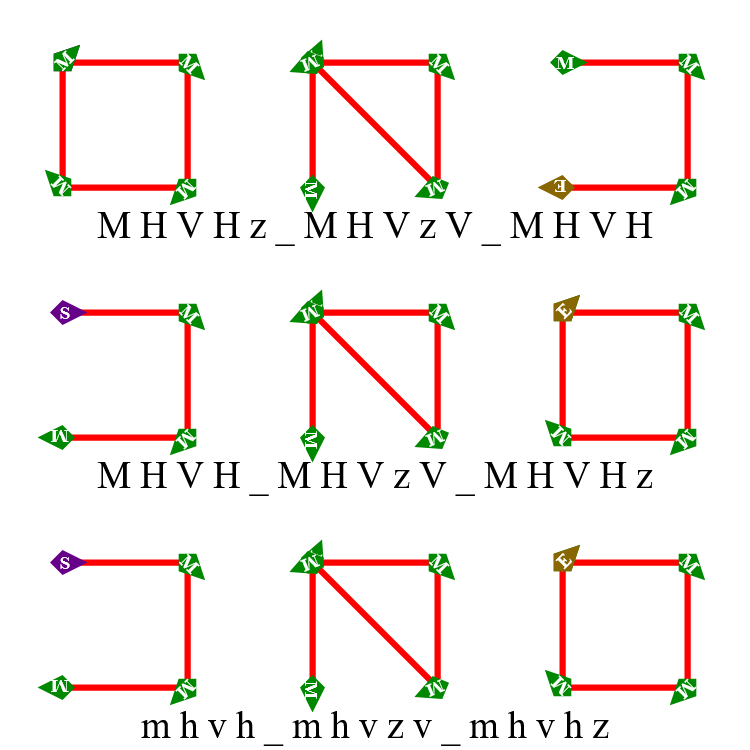
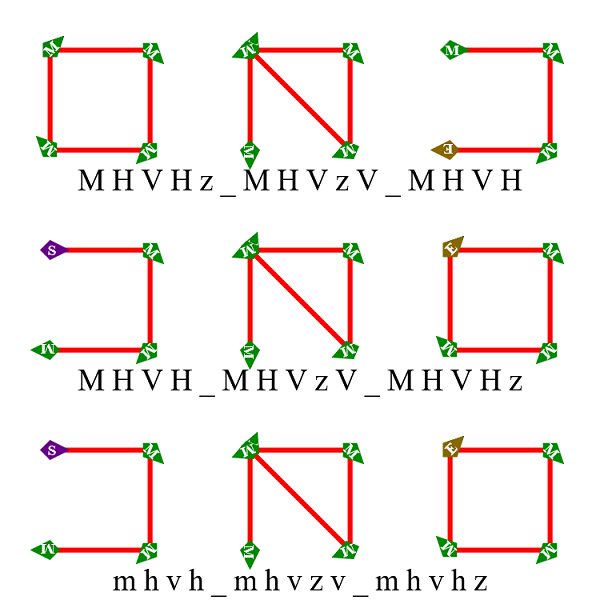
Fix

diff --git a/sahara/node_vertices_tests/README.md b/sahara/node_vertices_tests/README.md
@@ -11,7 +11,7 @@ The rightmost images are visualisations of the `node.vertices` array, which is i
 ## Lines
 |     |     |     |
 | :-: | :-: | :-: |
-| ![](lines-ink.png)<br/>**Inkscape** | ![]lines-kozea.png)<br/>**Kozea** | ![](lines-kozea-vertices.png)<br/>**Kozea (vertices)** |
+| ![](lines-ink.png)<br/>**Inkscape** | ![](lines-kozea.png)<br/>**Kozea** | ![](lines-kozea-vertices.png)<br/>**Kozea (vertices)** |
 | ![](lines-agc-main.png)<br/>**AgC/main**| ![](lines-agc-master.png)<br/>**AgC/master**  | ![](lines-agc-master-vertices.png)<br/>**AgC/master (vertices)** |
 
 ## Beziers
@@ -55,7 +55,6 @@ The seemingly missing markers in the bottom Inkscape image are due to an inconsi
 ## Marker size & gradients
 |     |     |     |
 | :-: | :-: | :-: |
-| ![](gradient-ink-fix.png)<br/>**Inkscape** | ![](gradient-kozea.png)<br/>**Kozea** | ![](gradient-kozea-vertices.png)<br/>**Kozea (vertices)** |
-| ![](gradient-agc-main.png)<br/>**AgC/main**| ![](gradient-agc-master.png)<br/>**AgC/master**  | ![](gradient-agc-master-vertices.png)<br/>**AgC/master (vertices)** |
+| ![](gradient-ink.png)<br/>**Inkscape** | ![](gradient-kozea.png)<br/>**Kozea** | ![](gradient-agc-master.png)<br/>**AgC/master** |
 
 [I removed](https://github.com/SilverCardioid/CairoSVG/commit/0835fc88780de1272eeb9181a02986d4289146cc) a section of code that scales markers based on their bounding box after noticing an issue with the sizes of markers (the testcase in the previous section was mistakenly [drawn with equally sized markers](overlap-kozea.png)). This part was [added in 2016](https://github.com/Kozea/CairoSVG/pull/89) in a series of edits relating to gradients, though what exact problem it was intended to fix isn't clear to me. This testcase renders the gradient on the markers correctly.
